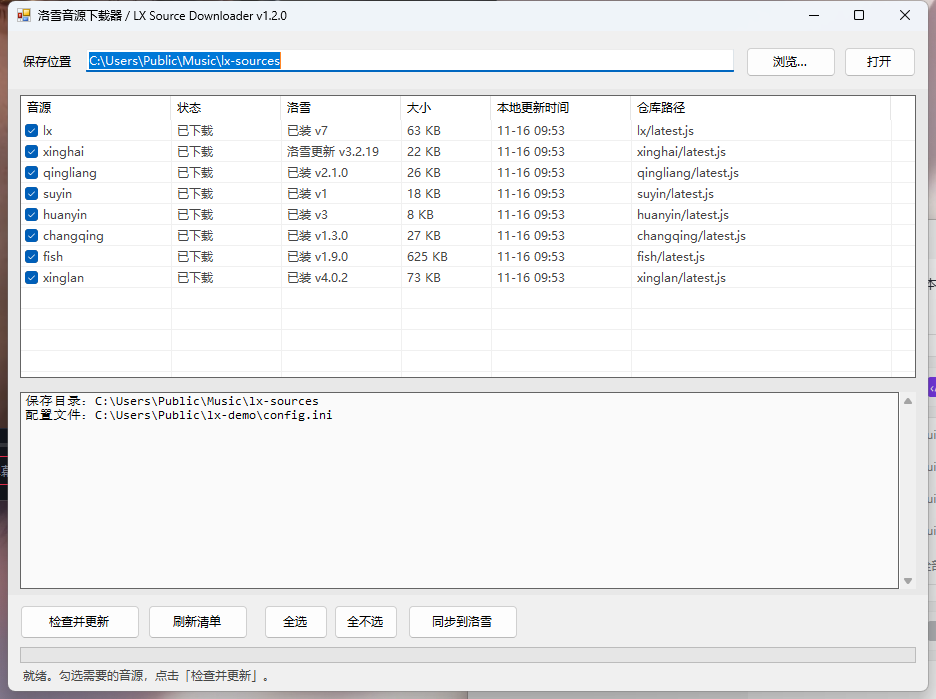
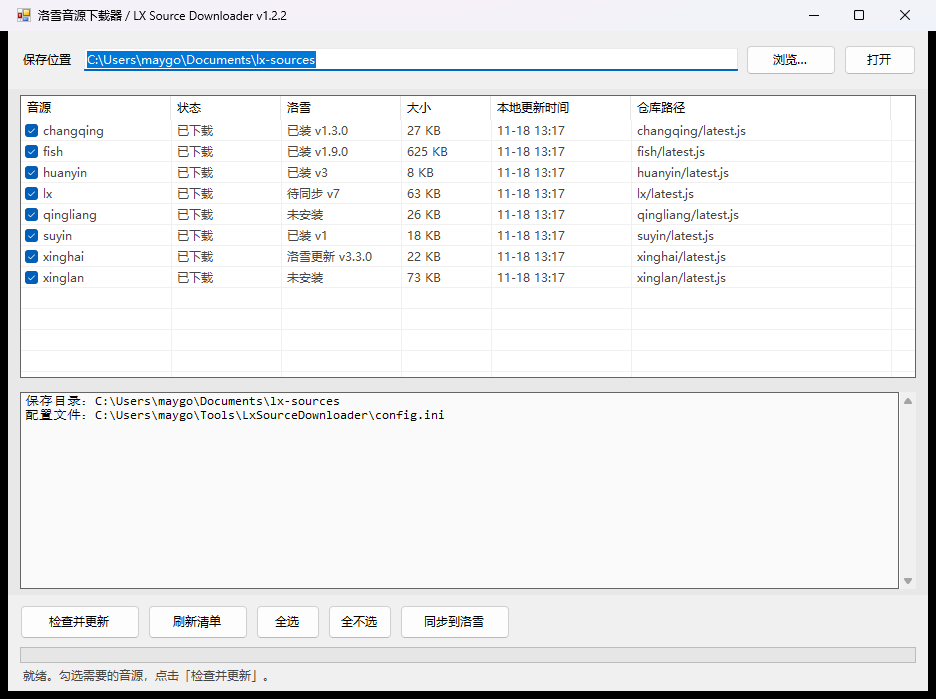
docs: lead with a Chinese pitch and refresh the screenshot
Most LX Music users search in Chinese, so README.md now opens with a one-line
Chinese summary, a download link and the three pain points the tool removes,
before the English description.

The screenshot is recaptured from 1.2.2 with all four LX Music states visible
(installed / pending / newer on LX / not installed) instead of the 1.2.0 build
showing a temporary folder.

diff --git a/README.md b/README.md
@@ -5,6 +5,16 @@
 [![license](https://img.shields.io/github/license/maygo88/lx-source-downloader)](LICENSE)
 ![platform](https://img.shields.io/badge/platform-Windows%2010%20%7C%2011-0078D4)
 
+**[下载最新版](https://github.com/maygo88/lx-source-downloader/releases/latest)** · 中文说明见
+[README.zh-CN.md](README.zh-CN.md)
+
+> 面向 [洛雪音乐](https://github.com/lyswhut/lx-music-desktop) 用户的单文件小工具：一键下载/更新第三方
+> 自定义音源，并把音源**直接同步进你本地的洛雪**。SHA-256 内容比对（只写有变化的文件）、加速站自动切换、
+> 免安装，一个 50 KB 的 exe。
+>
+> 它解决的是这几个具体的手工步骤：GitHub 时通时不通；不知道自己的音源是不是最新；已经装进洛雪的音源看不见
+> 版本；想把本地脚本塞回洛雪只能一条条手动导入。
+
 A single-file Windows GUI that downloads and updates [LX Music](https://github.com/lyswhut/lx-music-desktop)
 custom sources — and reads/writes the sources **already installed** in your LX Music.
 
